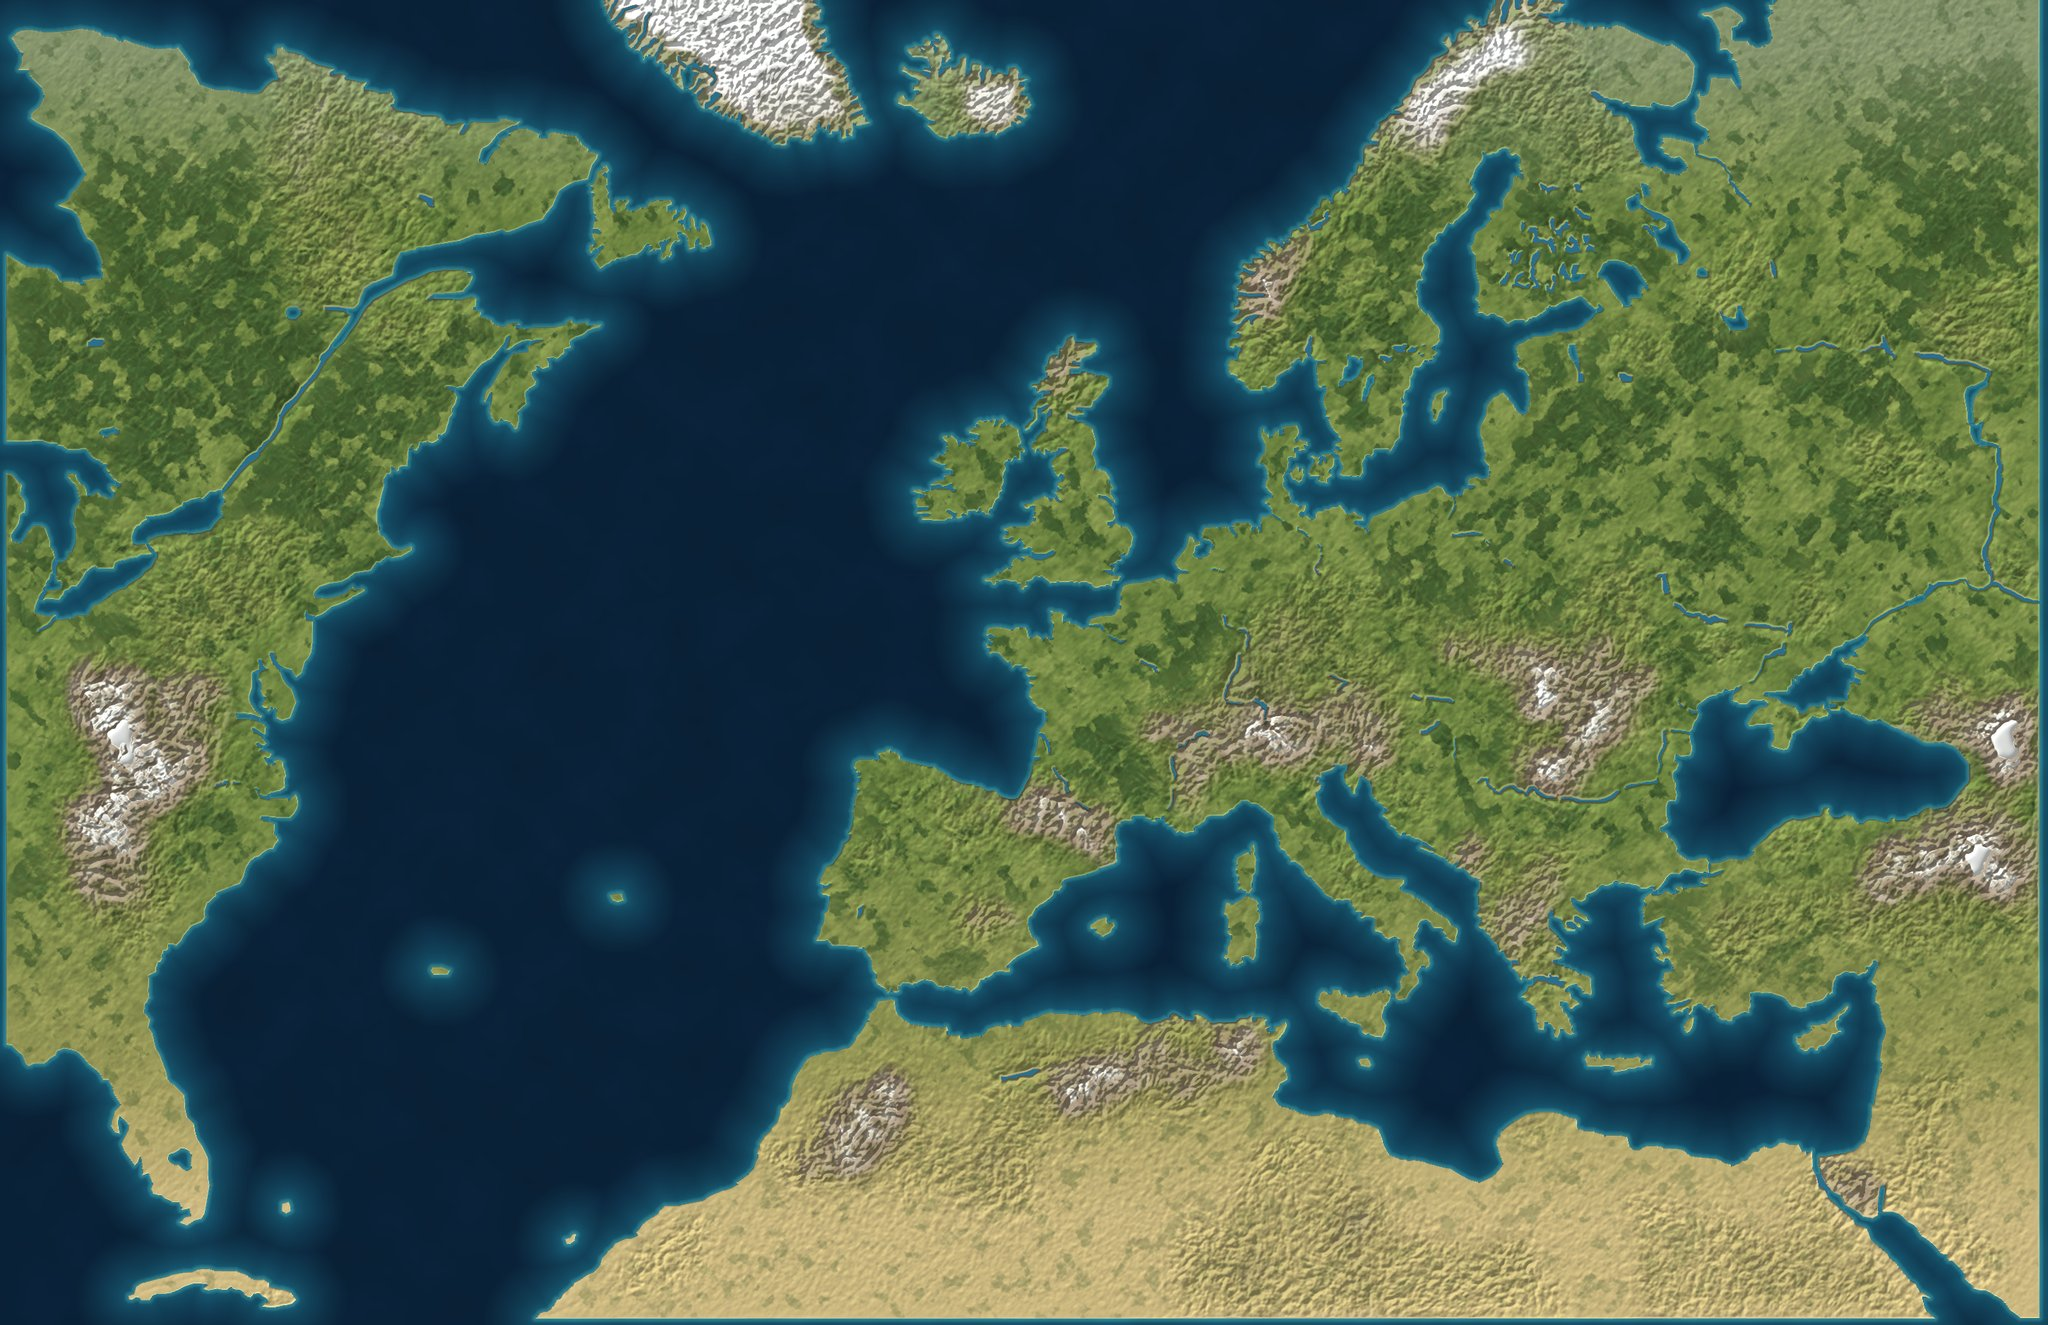
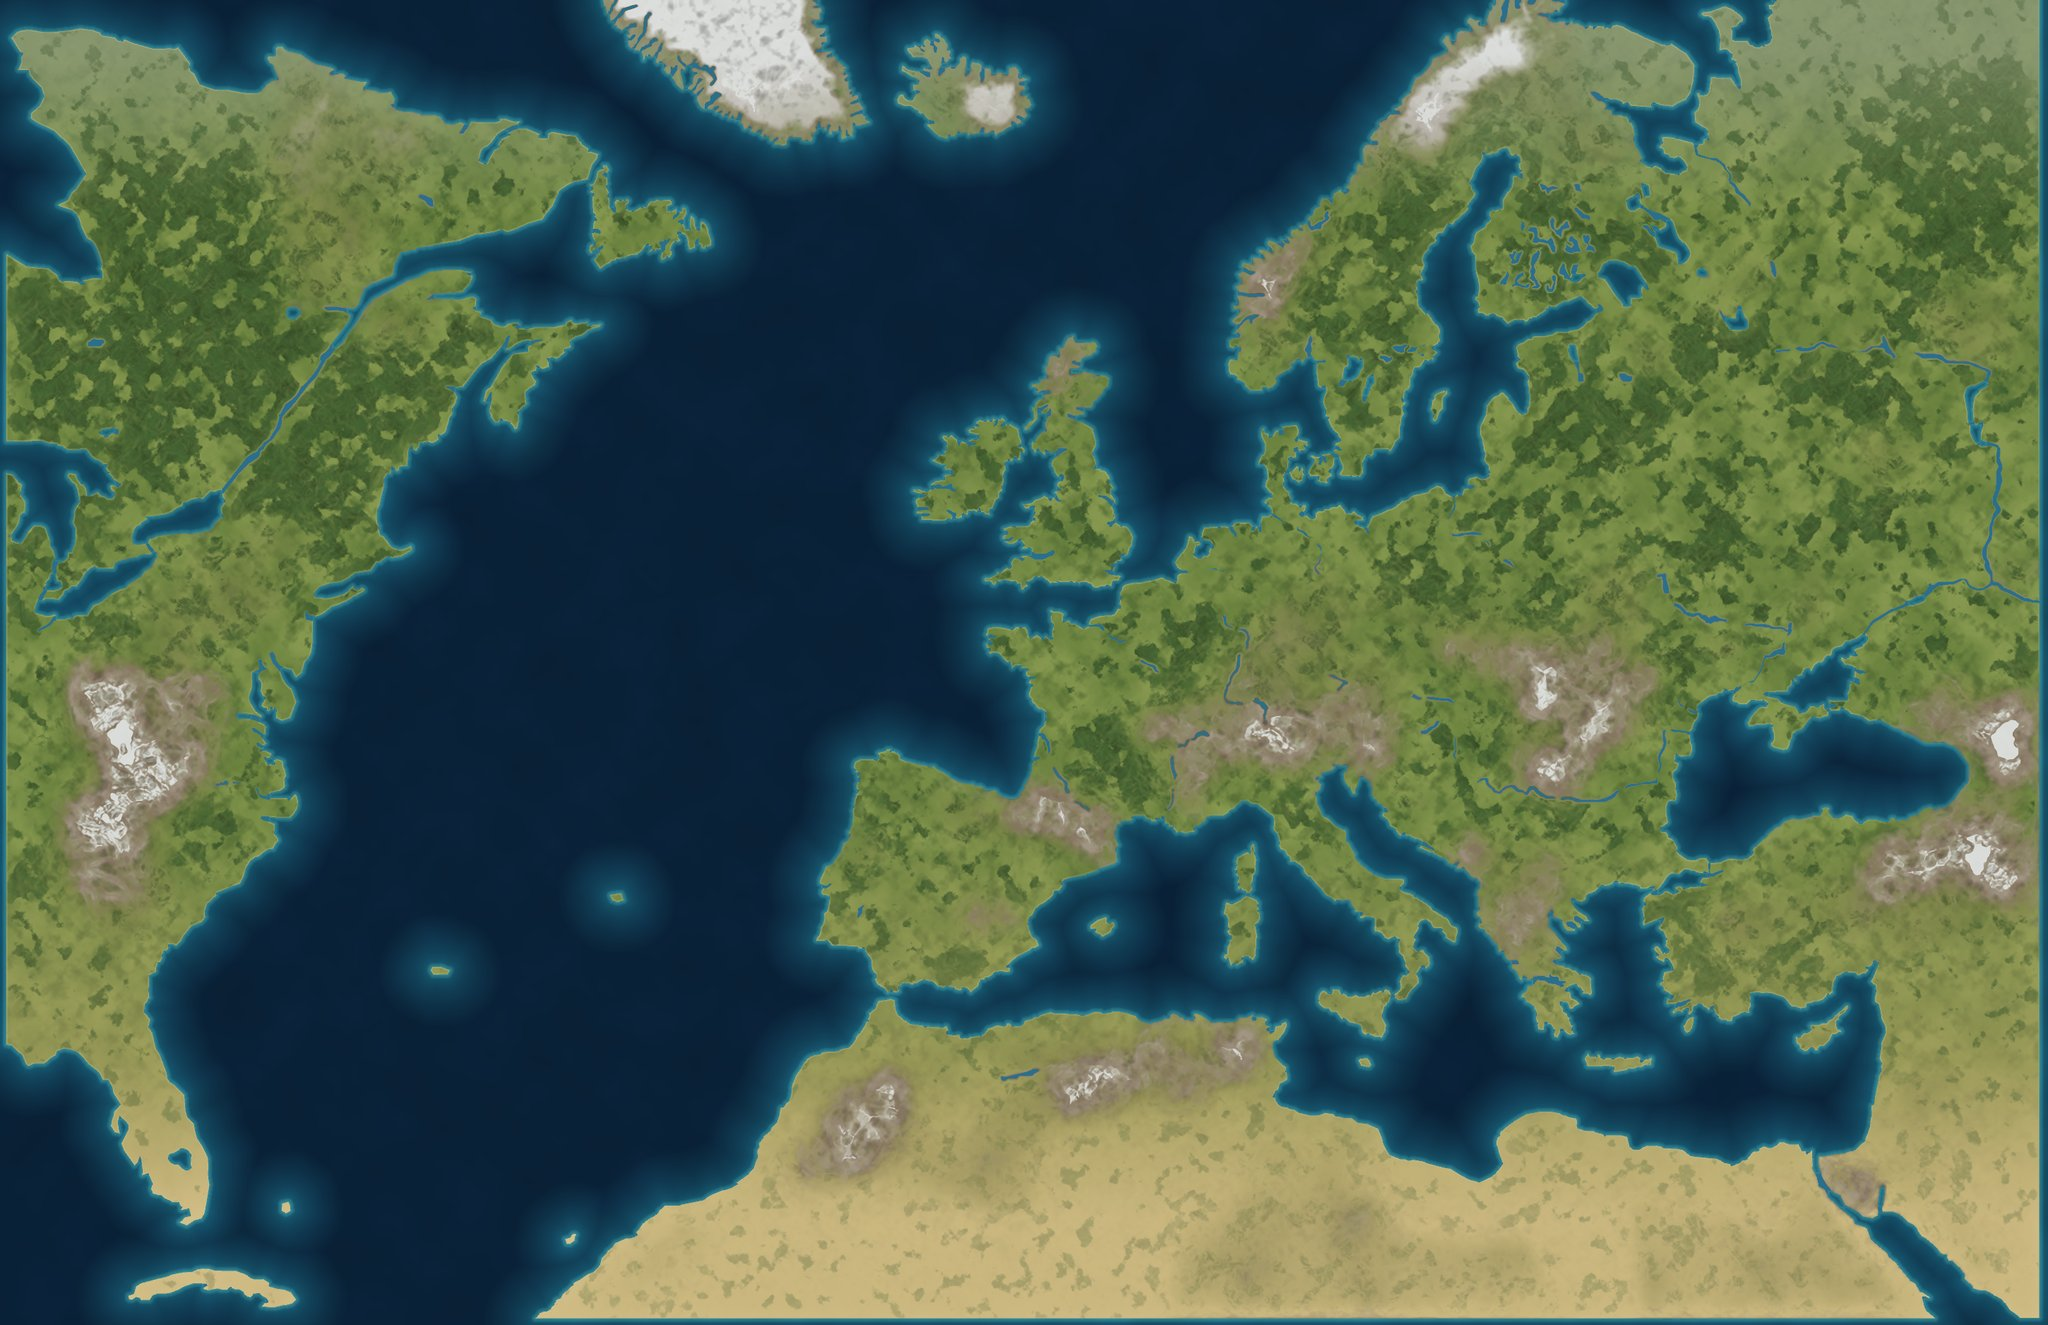
3D view: sharp per-pixel mountain relief (normal map), no blur, light sharpening, softer cloud shadows
Claude-Session: https://claude.ai/code/session_01JDcWw2LqBNgu3FSif6xRGG

diff --git a/3d/index.html b/3d/index.html
@@ -113,13 +113,14 @@ const DATA=new Promise(res=>{
     let over=blank(); try{ if(e.data.over) over=await img(URL.createObjectURL(e.data.over)); }catch(_){}
     res({over,U:e.data.U||{i:[],u:[],r:{}}}); });
   parent.postMessage({type:'af3d-ready'},location.origin); });
-const [hImg, tImg, oImg, mImg, dImg, labels, U] = await Promise.all([
+const [hImg, tImg, oImg, mImg, dImg, labels, U, nImg] = await Promise.all([
   img('height.png').then(r=>{step('Raising the mountains…');return r;}),
   img(HI?'nat_hi.jpg':'nat_lo.jpg').then(r=>{step('Growing the forests…');return r;}),
   DATA.then(d=>d.over),
   img('mask.png'), img('detail.png'),
   fetch('labels.json').then(r=>r.json()),
   DATA.then(d=>d.U),
+  img(HI?'nrm_hi.jpg':'nrm_lo.jpg'),
 ]);
 step('Placing units…');
 
@@ -156,7 +157,7 @@ const cloudC=document.createElement('canvas'); cloudC.width=512; cloudC.height=3
 const cloudT=new THREE.CanvasTexture(cloudC);
 const uni={ uCloud:{value:cloudT}, uCity:{value:new THREE.DataTexture(new Uint8Array(4),1,1)}, uTop:{value:HMAX}, uOver:{value:ovT}, uOvA:{value:.9}, uMask:{value:maskT}, uDet:{value:detT}, uRep:{value:new THREE.Vector2(W/42,H/42)} };
 const landMat=new THREE.MeshStandardMaterial({map:tex,roughness:.96,metalness:0});
-const bumpT=detT.clone(); bumpT.repeat.set(W/42,H/42); bumpT.needsUpdate=true; landMat.bumpMap=bumpT; landMat.bumpScale=PHONE?.25:.35;
+const nrmT=new THREE.Texture(nImg); nrmT.anisotropy=tex.anisotropy; nrmT.needsUpdate=true; landMat.normalMap=nrmT; landMat.normalMapType=THREE.ObjectSpaceNormalMap;
 landMat.onBeforeCompile=sh=>{ Object.assign(sh.uniforms,{uCloud:uni.uCloud,uCity:uni.uCity,uOver:uni.uOver,uOvA:uni.uOvA,uMask:uni.uMask,uDet:uni.uDet,uRep:uni.uRep});
   sh.vertexShader=sh.vertexShader.replace('#include <common>','#include <common>\nvarying float vHt;').replace('#include <begin_vertex>','#include <begin_vertex>\nvHt=position.y;');
   sh.fragmentShader=sh.fragmentShader.replace('#include <common>','#include <common>\nvarying float vHt; uniform sampler2D uOver; uniform sampler2D uCity; uniform sampler2D uCloud; uniform float uOvA; uniform sampler2D uMask; uniform sampler2D uDet; uniform vec2 uRep;')
@@ -166,7 +167,7 @@ landMat.onBeforeCompile=sh=>{ Object.assign(sh.uniforms,{uCloud:uni.uCloud,uCity
       float grain=mix(dA.g,dB.g,.5), canopy=dA.r*.75+dB.r*.25, rockd=dA.b*.6+dB.b*.4;
       float dd=mix(grain,canopy,clamp(mk.r*1.3,0.,1.)); dd=mix(dd,rockd,clamp(mk.g*1.2,0.,1.)); dd=mix(dd,.5+(grain-.5)*.35,mk.b);
       diffuseColor.rgb*=mix(1.,.62+.76*dd,.85*smoothstep(.05,.35,vHt));
-      diffuseColor.rgb*=mix(1.,texture2D(uCloud,vMapUv).r,.85);
+      diffuseColor.rgb*=mix(1.,texture2D(uCloud,vMapUv).r,.4);
       vec4 cg=texture2D(uCity,vMapUv); diffuseColor.rgb=mix(diffuseColor.rgb, cg.rgb*(.86+.28*grain), cg.a);
       vec4 ov=texture2D(uOver,vMapUv);
       float line=smoothstep(.62,.92,ov.a);                       // routes, borders, dots
@@ -529,7 +530,7 @@ $('bTop').onclick=()=>{ const t=ctl.target.clone(); const d=cam.position.distanc
 // ---------- high graphics: ambient occlusion, soft bloom, grading, tilt-shift depth of field ----------
 const GRADE={ uniforms:{ tDiffuse:{value:null}, res:{value:new THREE.Vector2(1,1)}, tilt:{value:0} }, vertexShader:'varying vec2 vUv; void main(){ vUv=uv; gl_Position=projectionMatrix*modelViewMatrix*vec4(position,1.); }',
   fragmentShader:`uniform sampler2D tDiffuse; uniform vec2 res; uniform float tilt; varying vec2 vUv;
-  void main(){ vec4 c=texture2D(tDiffuse,vUv); float b=tilt*smoothstep(.2,.56,abs(vUv.y-.46))*2.0;
+  void main(){ vec4 c=texture2D(tDiffuse,vUv); vec2 px=1./res; vec3 nb=texture2D(tDiffuse,vUv+vec2(px.x,0.)).rgb+texture2D(tDiffuse,vUv-vec2(px.x,0.)).rgb+texture2D(tDiffuse,vUv+vec2(0.,px.y)).rgb+texture2D(tDiffuse,vUv-vec2(0.,px.y)).rgb; c.rgb=max(c.rgb+(c.rgb-nb*.25)*.45,0.); float b=0.;
     if(b>.05){ vec3 a=c.rgb; float n=1.; for(int i=0;i<12;i++){ float an=float(i)*2.39996; float r=sqrt(float(i)+.5)/3.6; vec2 o=vec2(cos(an),sin(an))*r*b/res; a+=texture2D(tDiffuse,vUv+o).rgb; n+=1.; } c.rgb=a/n; }
     float l=dot(c.rgb,vec3(.2126,.7152,.0722)); c.rgb=mix(vec3(l),c.rgb,1.12); c.rgb=pow(max(c.rgb,0.),vec3(1.04));
     vec2 q=vUv-.5; c.rgb*=1.-dot(q,q)*.55; gl_FragColor=c; }` };
